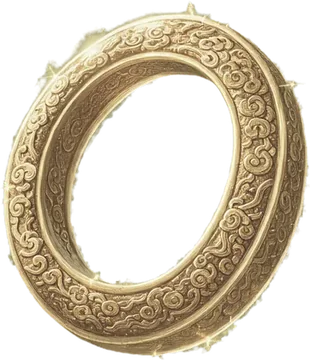
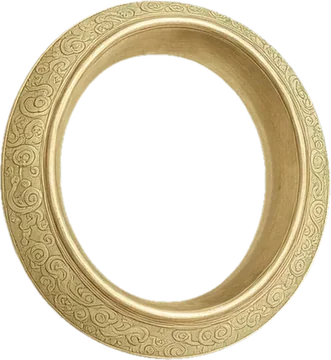
拂塵、雲氣、乾坤圈、火尖槍換成原本風格（AI Video 重畫，使用者挑：拂塵 2、雲氣 1、乾坤圈 1、火尖槍 2），不調淡
只有鳳凰是油畫風。拂塵變細（寬高比 394/900），槍尖火焰位置照新圖重量。風火輪等新影片。

diff --git a/js/weapons.js b/js/weapons.js
@@ -10,8 +10,8 @@
 
 export const MAX_SPARKS = 60;
 const THROW = 160; // 飛一圈幾格
-const TIP = [0.94, 0.06]; // 火焰中心在槍圖裡的位置（tools/prep_weapons.py 量的槍尖，往內一點）
-const SPEAR_ASPECT = 900 / 885;
+const TIP = [0.95, 0.055]; // 火焰中心在槍圖裡的位置（tools/prep_weapons.py 量的槍尖，往內一點）
+const SPEAR_ASPECT = 900 / 897;
 const WHEELS_ASPECT = 1.8; // 一對風火輪連火焰的寬高比（tools/prep_fenghuolun.py 裁出來的）
 
 const clamp = (v, a, b) => Math.max(a, Math.min(b, v));

diff --git a/js/fuchen.js b/js/fuchen.js
@@ -7,7 +7,7 @@
 export const MAX_WISPS = 3;
 const COOL = 90; // 甩一下之後 1.5 秒內不會再掃出雲
 const WISP_LIFE = 300; // 一朵雲 5 秒
-const ASPECT = 600 / 900; // 拂塵圖的寬高比（tools/prep_weapons.py）
+const ASPECT = 394 / 900; // 拂塵圖的寬高比（tools/prep_weapons.py）
 
 const clamp = (v, a, b) => Math.max(a, Math.min(b, v));
 

diff --git a/tools/key_v2.py b/tools/key_v2.py
@@ -7,7 +7,7 @@ FLUX 畫不出純色背景（有筆觸、顏色也不太一樣），所以不量
   綠底：綠比紅藍高多少；洋紅底：紅藍比綠高多少；藍底：藍比紅綠高多少；黑底：多亮。
   背景那種顏色越突出 → 越透明，邊緣用一小段漸變；邊緣把混進來的背景色壓掉。
 最後只留大塊的（主體），背景上零星的小點、小火星拿掉。
-再用 tools/tone.py 把顏色調淡（使用者 2026-11-15 選「素材調淡」配月白網頁），後面的 prep 程式都吃調好的。
+需要的話再用 tools/tone.py 調淡（TONE；原本風格的素材不用調）。
 """
 from pathlib import Path
 
@@ -26,15 +26,15 @@ OUT = RAW / "keyed"
 # 名稱: (來源檔, 背景, 保留小塊的最小面積比例)
 # TIGHT：背景突出到角落典型值的幾成就算背景（預設 0.7；稻穗原圖在穀粒外畫了一圈淡粉紅的光，要更嚴）
 TIGHT = {}
-# 調淡的強度（1 = 跟比較圖一樣；0 = 不調）
+# 調淡的強度（1 = 跟比較圖一樣；0 = 不調，預設不調：原本風格已經很淡雅）
 TONE = {}
 ITEMS = {
-    # 2026-11-15 定案：只有鳳凰是油畫風；鯉魚、蟠桃樹、金蓮、稻穗、虎爺、青鳥換回原本的圖。
-    # 下面四樣是新加的元素，暫時用油畫版（調淡），之後換成 AI Video 用原本風格重畫的版本
-    "fuchen": ("fuchen-2.png", "black", 0.0005),
-    "cloud-wisp": ("cloud-wisp-4.png", "black", 0.002),
-    "qiankunquan": ("qiankunquan-2.png", "green", 0.002),
-    "huojianqiang": ("huojianqiang-2.png", "green", 0.0005),
+    # 2026-11-15 定案：只有鳳凰是油畫風；其他都用原本（柔和）的風格。
+    # 下面四樣是 AI Video 用原本風格重畫的（使用者挑：拂塵 2、雲氣 1、乾坤圈 1、火尖槍 2），不調淡
+    "fuchen": ("fuchen-soft-2.png", "black", 0.0005),
+    "cloud-wisp": ("cloud-wisp-soft-1.png", "black", 0.002),
+    "qiankunquan": ("qiankunquan-soft-1-clean.png", "green", 0.002),
+    "huojianqiang": ("huojianqiang-soft-2-clean.png", "green", 0.0005),
 }
 
 
@@ -98,7 +98,7 @@ for name, (src, bg, min_frac) in ITEMS.items():
     out, a = key(rgb, bg, TIGHT.get(name, 0.7))
     a = keep_big(a, min_frac)
     a[a < 0.03] = 0
-    out = tone(out, TONE.get(name, 1.0))
+    out = tone(out, TONE.get(name, 0))
     img = Image.fromarray(np.dstack([out, a * 255]).clip(0, 255).astype(np.uint8), "RGBA")
     img.save(OUT / f"{name}.png")
     ys, xs = np.nonzero(a > 0.5)
